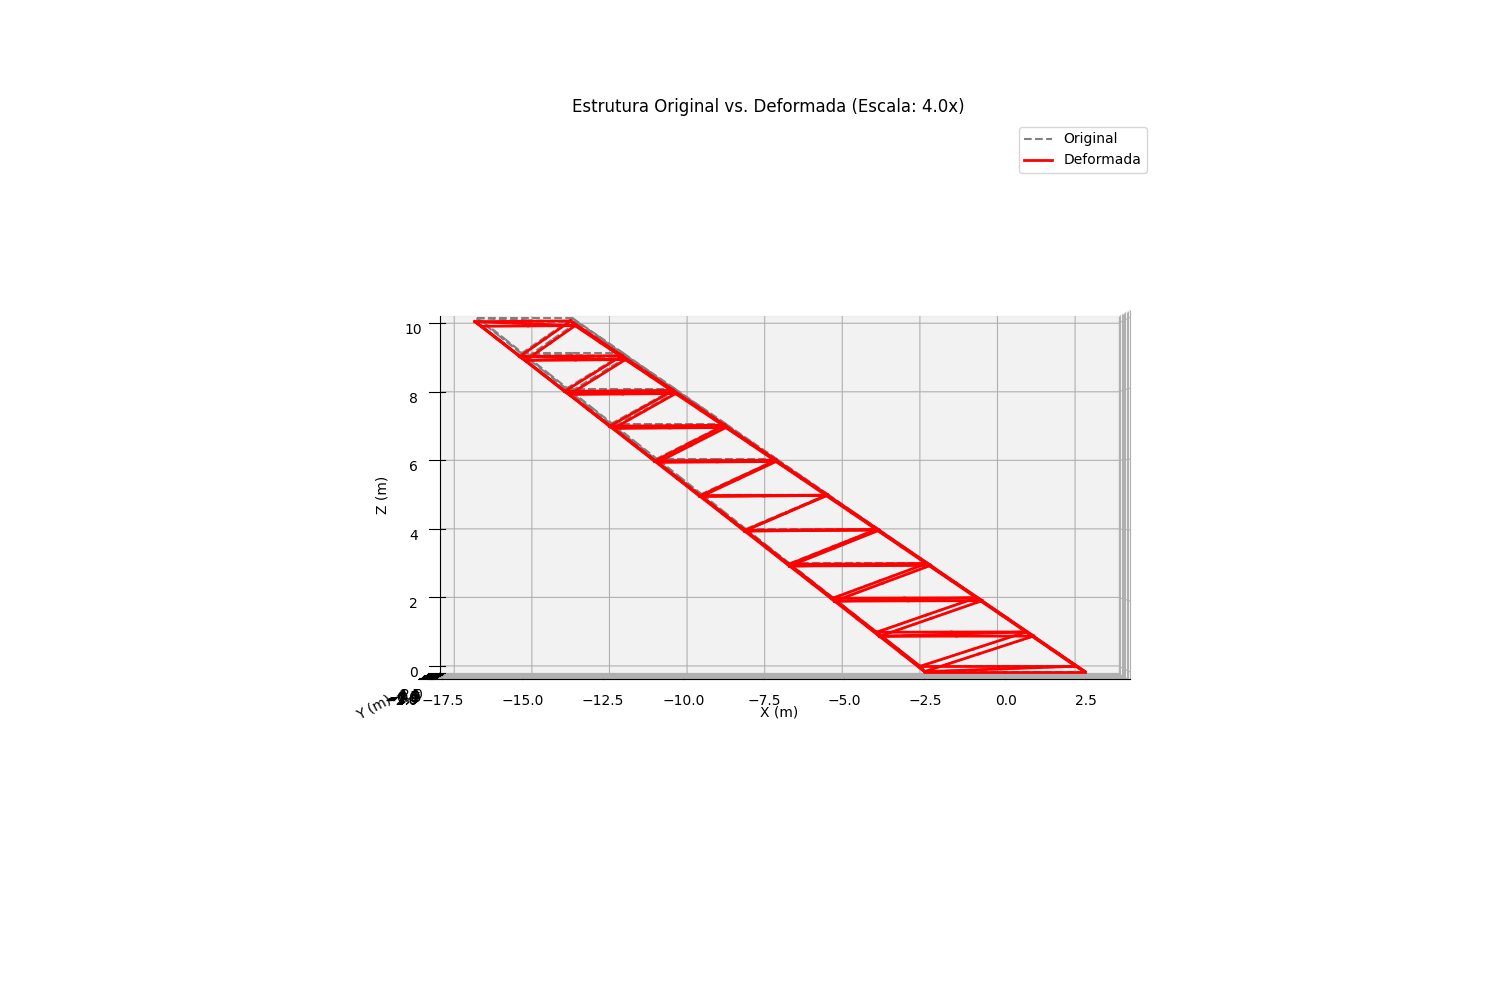
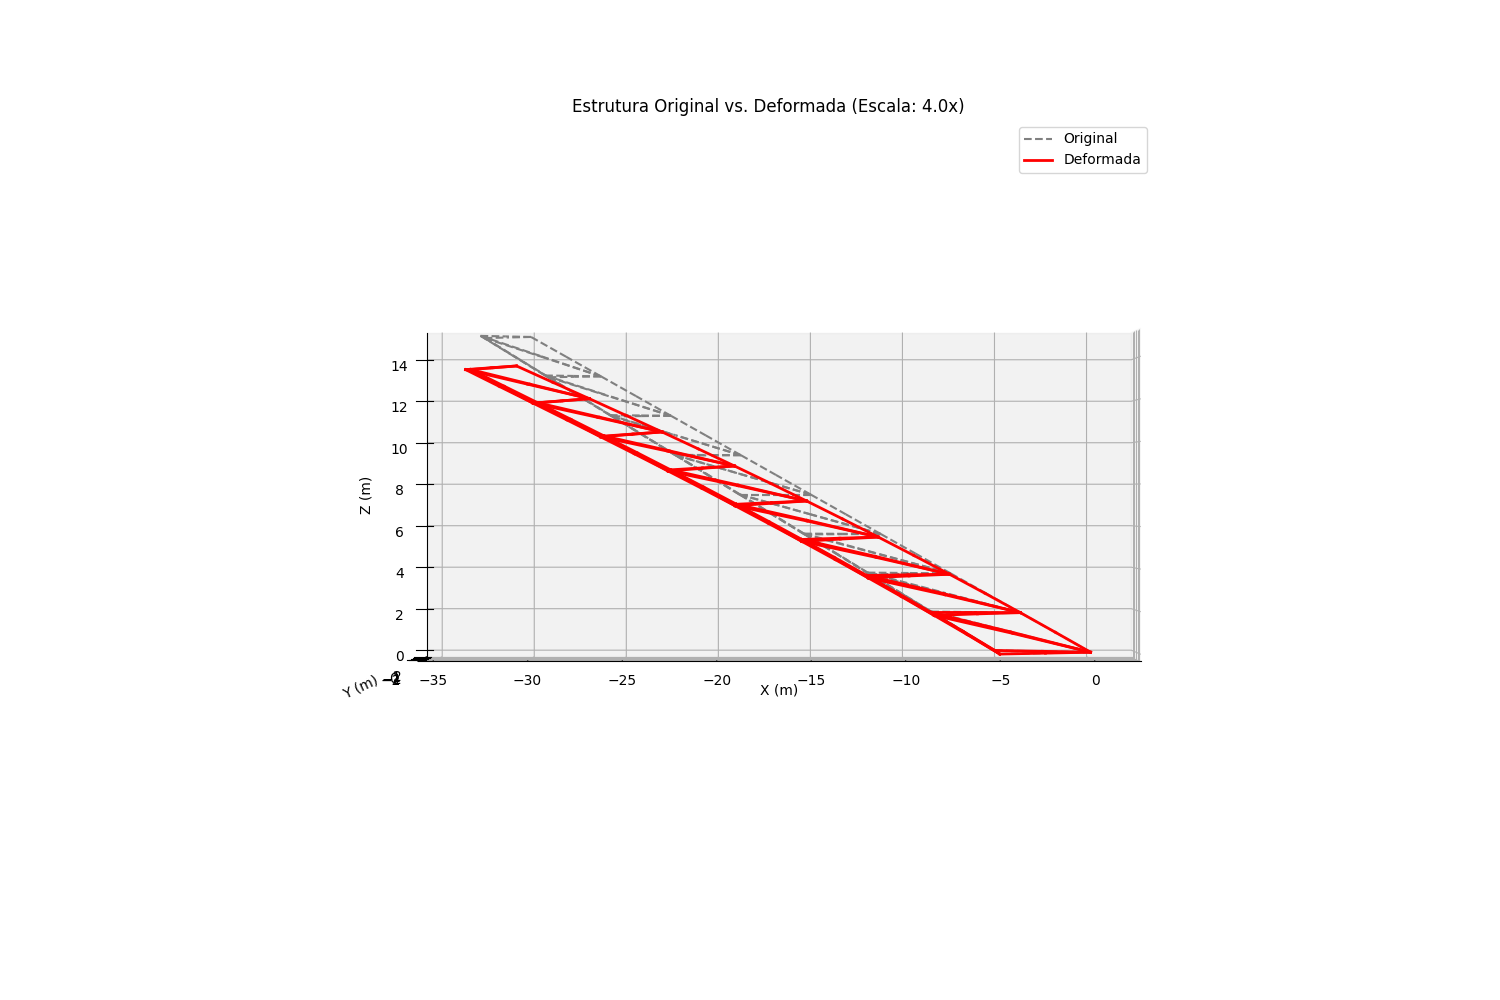
parte1 metaheurística

diff --git a/source/main.py b/source/main.py
@@ -10,15 +10,15 @@ data_path='data/'
 # ID 2 -> TRIÂNGULO DE CABEÇA PRA BAIXO
 # ID 3 -> SEÇÃO RETANGULAR
 
-#eo_generator(filename='trelica', num_segmentos = 4, l_base = 5, h_base = 5, ponto_final = (-30.0, 0.0, 15.0), ID = 1)    # Benchmark 01
+geo_generator(filename='trelica', num_segmentos = 8, l_base = 5, h_base = 5, ponto_final = (-30.0, 0.0, 15.0), ID = 1)    # Benchmark 01
 #geo_generator(filename='trelica', num_segmentos = 1, l_base = 3.0, h_base = 3.0, ponto_final = (-10.0, 0.0, 5.0), ID = 1)
-geo_generator(filename='trelica', num_segmentos = 10, l_base = 4.0, h_base = 5.0, ponto_final = (-15.0, 0.0, 10.0), ID = 3)  # geo_module
+#geo_generator(filename='trelica', num_segmentos = 10, l_base = 4.0, h_base = 5.0, ponto_final = (-15.0, 0.0, 10.0), ID = 3)  # geo_module
 nodes,elements = geo_reader(data_path+'trelica1.geo')                                                                      # geo_module
 
 deslocamentos, tensoes, elementos_falha, lambdas = fem_solver_3d(nodes, elements-1, ID=1)                                  # solver
 
-plotar_estrutura(nodes, elements-1)                                                                                        # plot
-plotar_estrutura_deformada(nodes, elements-1, deslocamentos, escala_deformacao=4.0)                                        # plot
-plotar_tensoes(nodes, elements-1, tensoes, deslocamentos, escala_deformacao=4.0)                                           # plot
+#plotar_estrutura(nodes, elements-1)                                                                                        # plot
+#plotar_estrutura_deformada(nodes, elements-1, deslocamentos, escala_deformacao=4.0)                                        # plot
+#plotar_tensoes(nodes, elements-1, tensoes, deslocamentos, escala_deformacao=4.0)                                           # plot
 
 printer(nodes, elements-1, elementos_falha ,deslocamentos, tensoes, lambdas)                                               # post

diff --git a/source/metaheuristic.py b/source/metaheuristic.py
@@ -1,0 +1,43 @@
+from pyMetaheuristic.algorithm import bat_algorithm
+import numpy as np
+from geo_module import *
+from solver import *
+
+def objective_function(vetor_parametros):
+
+    penalidadeTC=0
+    penalidadeFb=0
+    
+    data_path='data/'
+    geo_generator(filename='teste_heuristica', num_segmentos = 8, l_base = 5, h_base = 5, ponto_final = (-30.0, 0.0, 15.0), ID = 1)
+    nodes,elements = geo_reader(data_path+'teste_heuristica1.geo')
+    deslocamentos, tensoes, elementos_falha, lambdas = fem_solver_3d(nodes, elements-1, ID=1)
+    #print(f'Deslocamentos: {deslocamentos}')
+    #print(f'Tensões: {tensoes}')
+    #print(f'Elementos falha: {elementos_falha}')
+    #print(f'lambdas: {lambdas}')
+    #print(f'Nós: {nodes}')
+    #print(f'Elementos: {elements}')
+
+
+    # Massa da estrutura
+    densidade_aco = 7330.0; area_secao = 0.005; g = 9.81
+    volume_total = 0.0
+    for elem in (elements-1):
+        ponto1 = nodes[elem[0]]
+        ponto2 = nodes[elem[1]]
+        comprimento_barra = np.linalg.norm(ponto2 - ponto1)
+        volume_total += area_secao*comprimento_barra
+    massa_total_kg = volume_total*densidade_aco
+
+    if len(elementos_falha)!=0:
+        penalidadeTC+=1000000000
+    for flambagem in lambdas:
+        if flambagem >=1:
+            penalidadeFb+=1000000000
+
+    valor_objetivo=massa_total_kg+penalidadeTC+penalidadeFb
+    print(valor_objetivo)
+    return valor_objetivo
+
+objective_function([])

diff --git a/source/geo_module.py b/source/geo_module.py
@@ -130,8 +130,8 @@ def geo_generator(filename, num_segmentos, l_base, h_base,  ponto_final, ID):
     # --- NOMEANDO ARQUIVOS .GEO ---
     geo_path=f'data/{filename}'
     geo_path_id=1
-    while os.path.exists(f'../data/{filename}'+str(geo_path_id)):
-       geo_path_id+=1
+    #while os.path.exists(f'../data/{filename}'+str(geo_path_id)):
+    #   geo_path_id+=1
     geo_path+=str(geo_path_id)+'.geo'
 
     with open(geo_path, 'w') as f:
